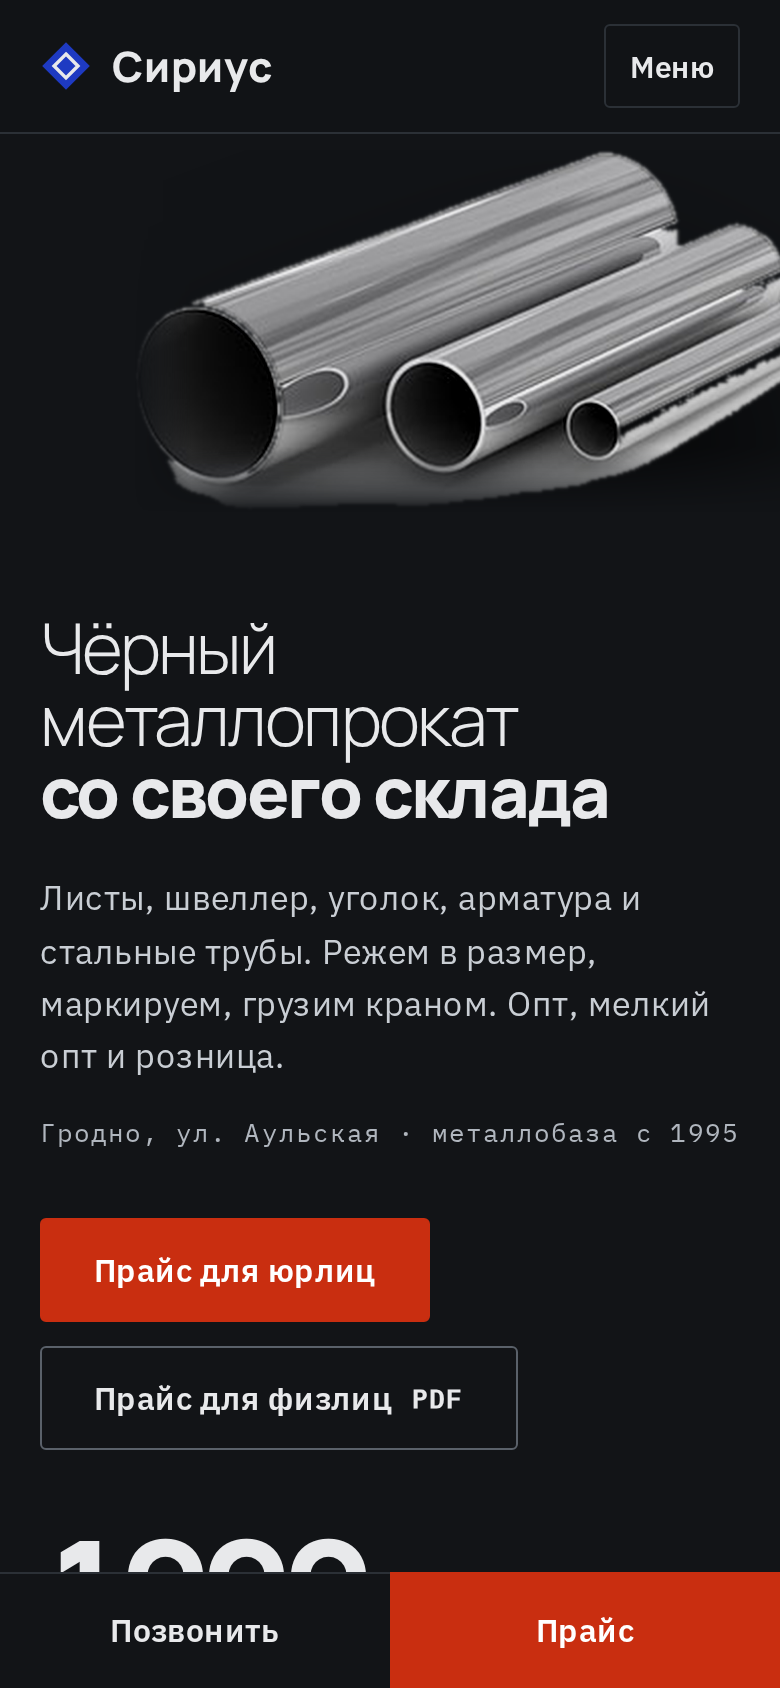
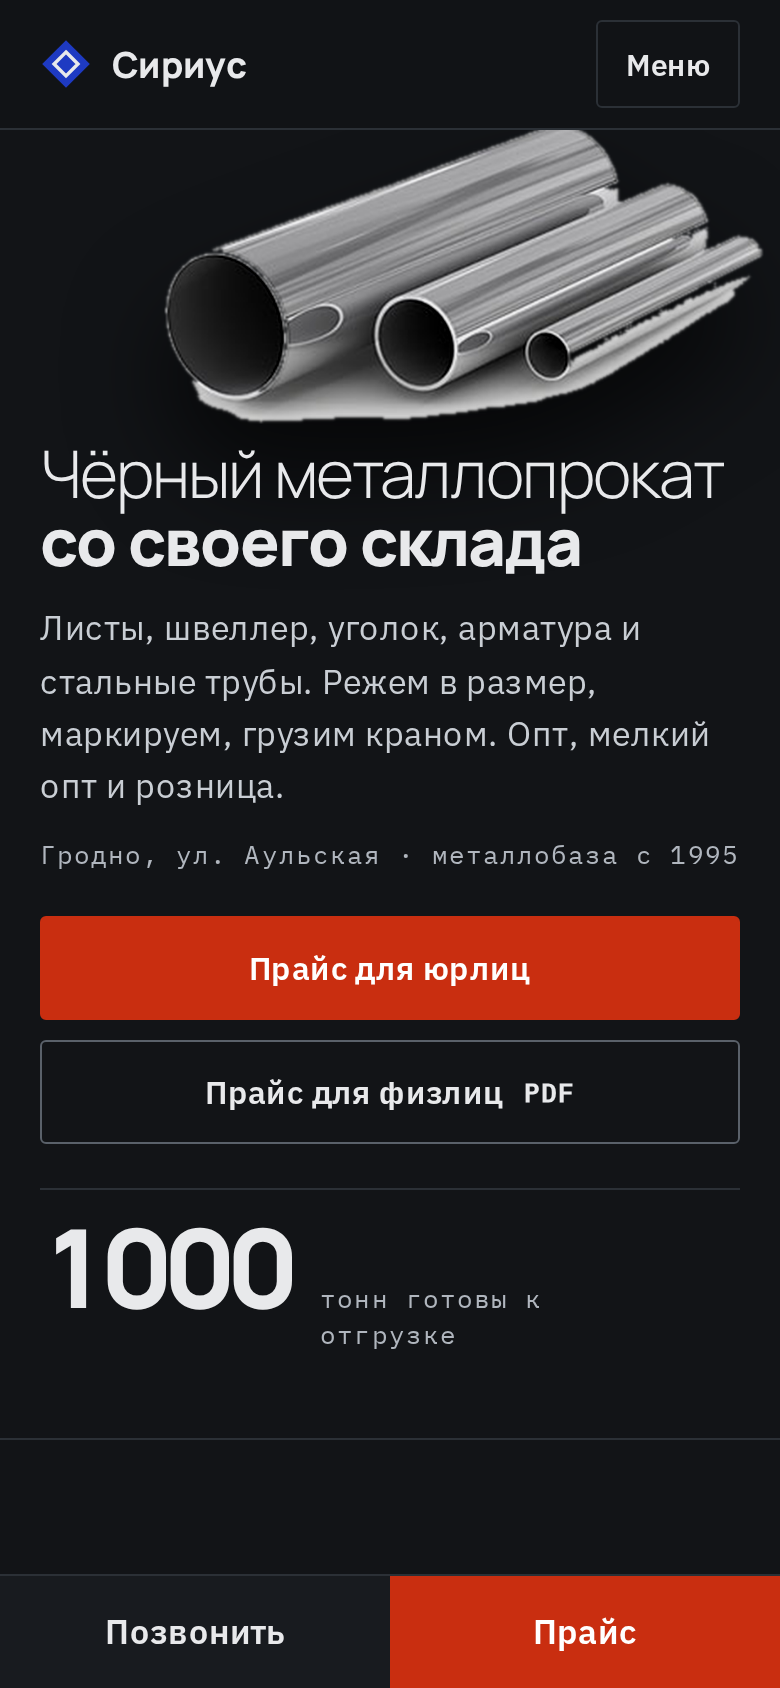
Mobile adapt + polish for «Под краном»
- Hero: document flow on phone, full-width CTAs, tonnage strip clears dock
- mnav: aria-expanded, Escape, focus first link, 44px targets
- Dock safe-area, short-viewport denser hero, swipe rail touch-action
- Desktop nav hit targets ≥44px; detector clean

diff --git a/assets/style.css b/assets/style.css
@@ -41,7 +41,7 @@ h3{font-family:var(--f-d);font-weight:700;letter-spacing:-.02em}
 .brand__mark{width:26px;height:26px;flex:none}
 .brand__word{font:800 1.3125rem/1 var(--f-d);letter-spacing:.01em}
 .nav{margin-left:auto}.nav ul{display:flex;gap:28px}
-.nav a{text-decoration:none;color:var(--dim);font-size:.9375rem;transition:color .16s}.nav a:hover{color:var(--ink)}
+.nav a{text-decoration:none;color:var(--dim);font-size:.9375rem;transition:color .16s;display:inline-flex;align-items:center;min-height:44px;padding:0 2px}.nav a:hover{color:var(--ink)}
 .hdr__tel{display:flex;flex-direction:column;font:500 .875rem/1.35 var(--f-m);font-variant-numeric:tabular-nums}
 .hdr__tel a{text-decoration:none;min-height:24px;display:flex;align-items:center}
 .mnav{display:none;position:relative;margin-left:auto}
@@ -61,7 +61,7 @@ h3{font-family:var(--f-d);font-weight:700;letter-spacing:-.02em}
 .hero__lead{color:#c9ced4;font-size:1.125rem;line-height:1.55;max-width:36em;margin-bottom:14px;letter-spacing:.015em}
 .hero__meta{color:var(--dim);margin-bottom:32px;font-size:.8125rem}
 .hero__acts{display:flex;flex-wrap:wrap;gap:12px}
-.hero__ton{position:relative;z-index:1;text-align:right;display:flex;flex-direction:column;align-items:flex-end;padding-bottom:6px;border-bottom:1px solid var(--line)}
+.hero__ton{position:relative;z-index:1;text-align:right;display:flex;flex-direction:column;align-items:flex-end;padding:12px 0;border-bottom:1px solid var(--line)}
 .hero__n{font:800 clamp(4.5rem,12vw,9.5rem)/.85 var(--f-d);letter-spacing:-.045em;font-variant-numeric:tabular-nums}
 .hero__ton .mono{color:var(--dim);margin-top:10px;max-width:12ch;text-align:right}
 
@@ -164,38 +164,145 @@ h3{font-family:var(--f-d);font-weight:700;letter-spacing:-.02em}
 }
 @media (prefers-reduced-motion:reduce){html{scroll-behavior:auto}*{transition:none!important;animation:none!important}}
 
+
+/* —— adapt: tablet / narrow desktop —— */
 @media (max-width:1100px){
-  .nav{display:none}.mnav{display:block}
+  .nav{display:none}
+  .mnav{display:block}
   .svc__grid,.req__grid{grid-template-columns:1fr;gap:var(--space-6)}
-  .yard{grid-template-columns:1fr;min-height:0}.yard__ph{min-height:380px}.yard__tx{padding:var(--space-7) var(--pad)}
+  .yard{grid-template-columns:1fr;min-height:0}
+  .yard__ph{min-height:min(42vw,420px)}
+  .yard__tx{padding:var(--space-7) var(--pad)}
   .sup__in,.priv__in{grid-template-columns:1fr;gap:var(--space-5)}
-  .hero__in{grid-template-columns:1fr;padding-top:280px}
-  .hero__ton{align-items:flex-start;text-align:left;margin-top:40px}.hero__ton .mono{text-align:left}
+  .hero__in{grid-template-columns:1fr;padding-top:min(42vw,320px)}
+  .hero__ton{align-items:flex-start;text-align:left;margin-top:var(--space-6)}
+  .hero__ton .mono{text-align:left;max-width:none}
+  .hero__obj{width:min(520px,62vw);right:-20px;top:24px}
 }
+
+/* —— adapt: phone —— */
 @media (max-width:700px){
-  body{font-size:1rem;padding-bottom:58px;letter-spacing:.012em}
+  body{font-size:1rem;letter-spacing:.012em;padding-bottom:calc(58px + env(safe-area-inset-bottom,0px))}
+  .hdr{padding-top:env(safe-area-inset-top,0px)}
+  .hdr__in{padding:10px var(--pad);gap:16px}
   .hdr__tel,.hdr .btn{display:none}
+  .brand__word{font-size:1.125rem}
+  .mnav summary{min-width:44px;min-height:44px;padding:0 14px;justify-content:center}
+  .mnav ul{right:0;left:auto;max-height:min(70vh,480px);overflow:auto;box-shadow:0 16px 40px rgba(0,0,0,.45)}
+  .mnav a{min-height:48px;display:flex;align-items:center;padding:0 18px;font-size:1.0625rem}
+
   .hero{min-height:0}
-  .hero__in{display:block;padding-top:240px;padding-bottom:48px}
-  .hero__obj{width:min(360px,92vw);right:-36px;top:8px}
-  .hero h1{font-size:clamp(2.125rem,9vw,2.75rem);max-width:none}
-  .hero__lead{font-size:1.0625rem}
-  .hero__n{font-size:clamp(3.5rem,18vw,5rem)}
-  .show{padding:var(--space-8) 0 var(--space-7)}.svc,.req{padding:var(--space-8) 0}.nums{padding:var(--space-8) 0}
-  .sec-head{grid-template-columns:1fr}.sec-head__aside{text-align:left;max-width:none;margin-top:12px}
-  .show__rail{grid-auto-columns:78%;margin-top:var(--space-6)}
-  .show__item--lead{width:auto}.show__item--lead .show__link img,.show__link img{height:160px}
-  .show__link{min-height:300px}
-  .svc__list li{grid-template-columns:44px 1fr}.svc__list p{grid-column:2}
-  .nums__grid{grid-template-columns:1fr 1fr;gap:var(--space-6) var(--space-5)}
+  .hero__in{
+    display:flex;flex-direction:column;align-items:stretch;
+    padding:0 var(--pad) 28px;gap:0;
+  }
+  .hero__obj{
+    position:relative;right:auto;top:auto;order:-1;
+    width:min(300px,78vw);align-self:flex-end;margin:-4px -12px 8px 0;
+    mask-image:none;-webkit-mask-image:none;
+    filter:brightness(.9) contrast(1.12) drop-shadow(0 28px 24px rgba(0,0,0,.65));
+  }
+  .hero__txt{order:0}
+  .hero h1{font-size:clamp(2rem,8.4vw,2.625rem);max-width:none;margin-bottom:14px}
+  .hero__lead{font-size:1.0625rem;margin-bottom:10px}
+  .hero__meta{margin-bottom:20px}
+  .hero__acts{flex-direction:column;gap:10px;width:100%}
+  .hero__acts .btn{width:100%;justify-content:center;min-height:52px}
+  /* tonnage fully above dock — compact strip, no mid-digit peek */
+  .hero__ton{
+    order:1;align-items:flex-start;text-align:left;margin-top:22px;padding:14px 0;
+    border-top:1px solid var(--line);border-bottom:0;width:100%;
+    flex-direction:row;align-items:baseline;gap:14px;flex-wrap:wrap;
+  }
+  .hero__n{font-size:clamp(2.75rem,14vw,3.5rem);line-height:.9}
+  .hero__ton .mono{margin-top:0;max-width:14ch;text-align:left;line-height:1.35}
+
+  .show{padding:var(--space-7) 0 var(--space-6)}
+  .svc,.req{padding:var(--space-7) 0}
+  .nums{padding:var(--space-7) 0}
+  .priv{padding:var(--space-6) 0}
+  .sup{padding:var(--space-6) 0}
+  .sec-head{grid-template-columns:1fr}
+  .sec-head__aside{text-align:left;max-width:none;margin-top:12px}
+  .show__rail{
+    grid-auto-columns:min(78%,300px);
+    margin-top:var(--space-5);
+    padding-bottom:12px;
+    overscroll-behavior-x:contain;
+    touch-action:pan-x;
+  }
+  .show__item--lead{width:auto}
+  .show__item--lead .show__link img,.show__link img{height:148px}
+  .show__link{min-height:280px;padding:22px 18px 22px}
+  .show__name{font-size:1.25rem}
+  .show__hint{margin-top:8px;font-size:.8125rem}
+
+  .svc__list li{grid-template-columns:40px 1fr;gap:14px;padding:20px 0}
+  .svc__list p{grid-column:2}
+  .svc__list h3{font-size:1.25rem}
+
+  .yard__ph{min-height:240px}
+  .yard__ph figcaption{left:16px;bottom:14px;font-size:.75rem}
+  .yard__tx{padding:var(--space-6) var(--pad)}
+  .yard__tx h2{font-size:clamp(1.75rem,7vw,2.25rem)}
+
+  .nums__grid{grid-template-columns:1fr 1fr;gap:var(--space-5) var(--space-4)}
+  .nums__v{font-size:clamp(2.5rem,12vw,3.25rem)}
+  .nums dt{font-size:.9375rem}
+
+  .sup__list{gap:10px}
+  .sup__list li{height:48px;padding:6px 10px}
+  .sup__list img{height:30px;width:96px}
+
   .form{grid-template-columns:1fr}
-  .ftr{padding:var(--space-7) 0 40px}.ftr__grid{grid-template-columns:1fr}
-  .dock{display:grid;grid-template-columns:1fr 1fr;position:fixed;inset:auto 0 0 0;z-index:30;padding-bottom:env(safe-area-inset-bottom);background:var(--bg)}
-  .dock a{display:flex;align-items:center;justify-content:center;min-height:58px;font-weight:600;text-decoration:none}
-  .dock a:first-child{border-top:1px solid var(--line)}
-  .dock a:last-child{background:var(--act);color:#fff}
+  .field input,.field textarea{font-size:1rem; /* iOS no-zoom */}
+  .btn{min-height:52px}
+
+  .ftr{padding:var(--space-6) 0 calc(24px + env(safe-area-inset-bottom,0px))}
+  .ftr__grid{grid-template-columns:1fr;gap:var(--space-5)}
+  .ftr__tels{font-size:1.375rem}
+  .ftr__tels a{display:inline-flex;min-height:44px;align-items:center}
+
+  .dock{
+    display:grid;grid-template-columns:1fr 1fr;
+    position:fixed;inset:auto 0 0 0;z-index:40;
+    padding-bottom:env(safe-area-inset-bottom,0px);
+    background:var(--bg);
+    border-top:1px solid var(--line);
+  }
+  .dock a{
+    display:flex;align-items:center;justify-content:center;
+    min-height:56px;font-weight:600;font-size:1.0625rem;text-decoration:none;
+  }
+  .dock__call{background:var(--bg-2);color:var(--ink)}
+  .dock__price{background:var(--act);color:#fff}
+  .dock a:focus-visible{outline-offset:-3px}
 }
+
 @media (max-width:360px){
-  .hero__obj{width:280px}.hero__in{padding-top:200px}
+  .hero__obj{width:min(200px,64vw);margin:-2px -4px 4px 0}
+  .hero h1{font-size:1.875rem}
+  .hero__lead{font-size:1rem}
+  .hero__in{padding-bottom:20px}
+  .hero__ton{margin-top:16px}
+  .hero__n{font-size:2.5rem}
   .nums__grid{grid-template-columns:1fr}
+  .show__rail{grid-auto-columns:85%}
 }
+/* short viewports: keep primary actions above dock */
+@media (max-width:700px) and (max-height:720px){
+  .hero__obj{width:min(180px,52vw);margin:-2px -8px 0 0}
+  .hero h1{font-size:clamp(1.625rem,6.5vw,2rem);margin-bottom:8px}
+  .hero__lead{display:-webkit-box;-webkit-line-clamp:2;-webkit-box-orient:vertical;overflow:hidden;margin-bottom:6px;font-size:.975rem}
+  .hero__meta{margin-bottom:12px;font-size:.75rem}
+  .hero__acts{gap:8px}
+  .hero__acts .btn{min-height:48px}
+  .hero__ton{margin-top:12px;padding:10px 0;gap:10px}
+  .hero__n{font-size:2.25rem}
+  .hero__ton .mono{font-size:.8125rem;max-width:12ch}
+}
+
+
+/* mnav above dock when open */
+.mnav{z-index:50}
+.mnav ul{z-index:50}

diff --git a/assets/main.js b/assets/main.js
@@ -1,8 +1,19 @@
 document.documentElement.classList.add('js');
 const io='IntersectionObserver' in window && new IntersectionObserver((es)=>{es.forEach(e=>{if(e.isIntersecting){e.target.classList.add('in');io.unobserve(e.target)}})},{rootMargin:'0px 0px -8% 0px'});
 document.querySelectorAll('.sec-head,.svc__intro,.svc__list li,.nums__grid div,.yard__tx,.req__intro,.priv__in').forEach(el=>{if(io){el.classList.add('rv');io.observe(el)}});
+
 const f=document.querySelector('.form');
 if(f){f.addEventListener('submit',e=>{e.preventDefault();let ok=true;
  f.querySelectorAll('[required]').forEach(i=>{const bad=!i.value.trim();i.setAttribute('aria-invalid',bad);if(bad&&ok){i.focus();ok=false}});
  f.querySelector('.form__status').textContent=ok?'Это демо: заявка не отправлена. На сайте здесь будет форма WordPress.':'Заполните имя и телефон.';});}
-document.querySelectorAll('.mnav a').forEach(a=>a.addEventListener('click',()=>{const d=a.closest('details');if(d)d.open=false}));
+
+/* Mobile nav: Escape, close on navigate, sync aria-expanded */
+const mnav=document.querySelector('.mnav');
+if(mnav){
+  const sum=mnav.querySelector('summary');
+  const sync=()=>sum && sum.setAttribute('aria-expanded', mnav.open?'true':'false');
+  sync();
+  mnav.addEventListener('toggle',()=>{sync(); if(mnav.open){const a=mnav.querySelector('a'); if(a) a.focus({preventScroll:true});}});
+  document.addEventListener('keydown',e=>{if(e.key==='Escape' && mnav.open){mnav.open=false;sum && sum.focus();}});
+  mnav.querySelectorAll('a').forEach(a=>a.addEventListener('click',()=>{mnav.open=false;}));
+}

diff --git a/index.html b/index.html
@@ -29,7 +29,7 @@
       </ul>
     </nav>
     <details class="mnav">
-      <summary>Меню</summary>
+      <summary aria-label="Открыть меню сайта">Меню</summary>
       <ul>
         <li><a href="https://sirius.by/catalog/">Каталог</a></li>
         <li><a href="https://sirius.by/price-list/">Цены</a></li>
@@ -258,8 +258,8 @@
 </footer>
 
 <nav class="dock" aria-label="Быстрые действия">
-  <a href="tel:+375152553490">Позвонить</a>
-  <a href="https://sirius.by/price-list/">Прайс</a>
+  <a class="dock__call" href="tel:+375152553490">Позвонить</a>
+  <a class="dock__price" href="https://sirius.by/price-list/">Прайс</a>
 </nav>
 <script src="assets/main.js" defer></script>
 </body>
